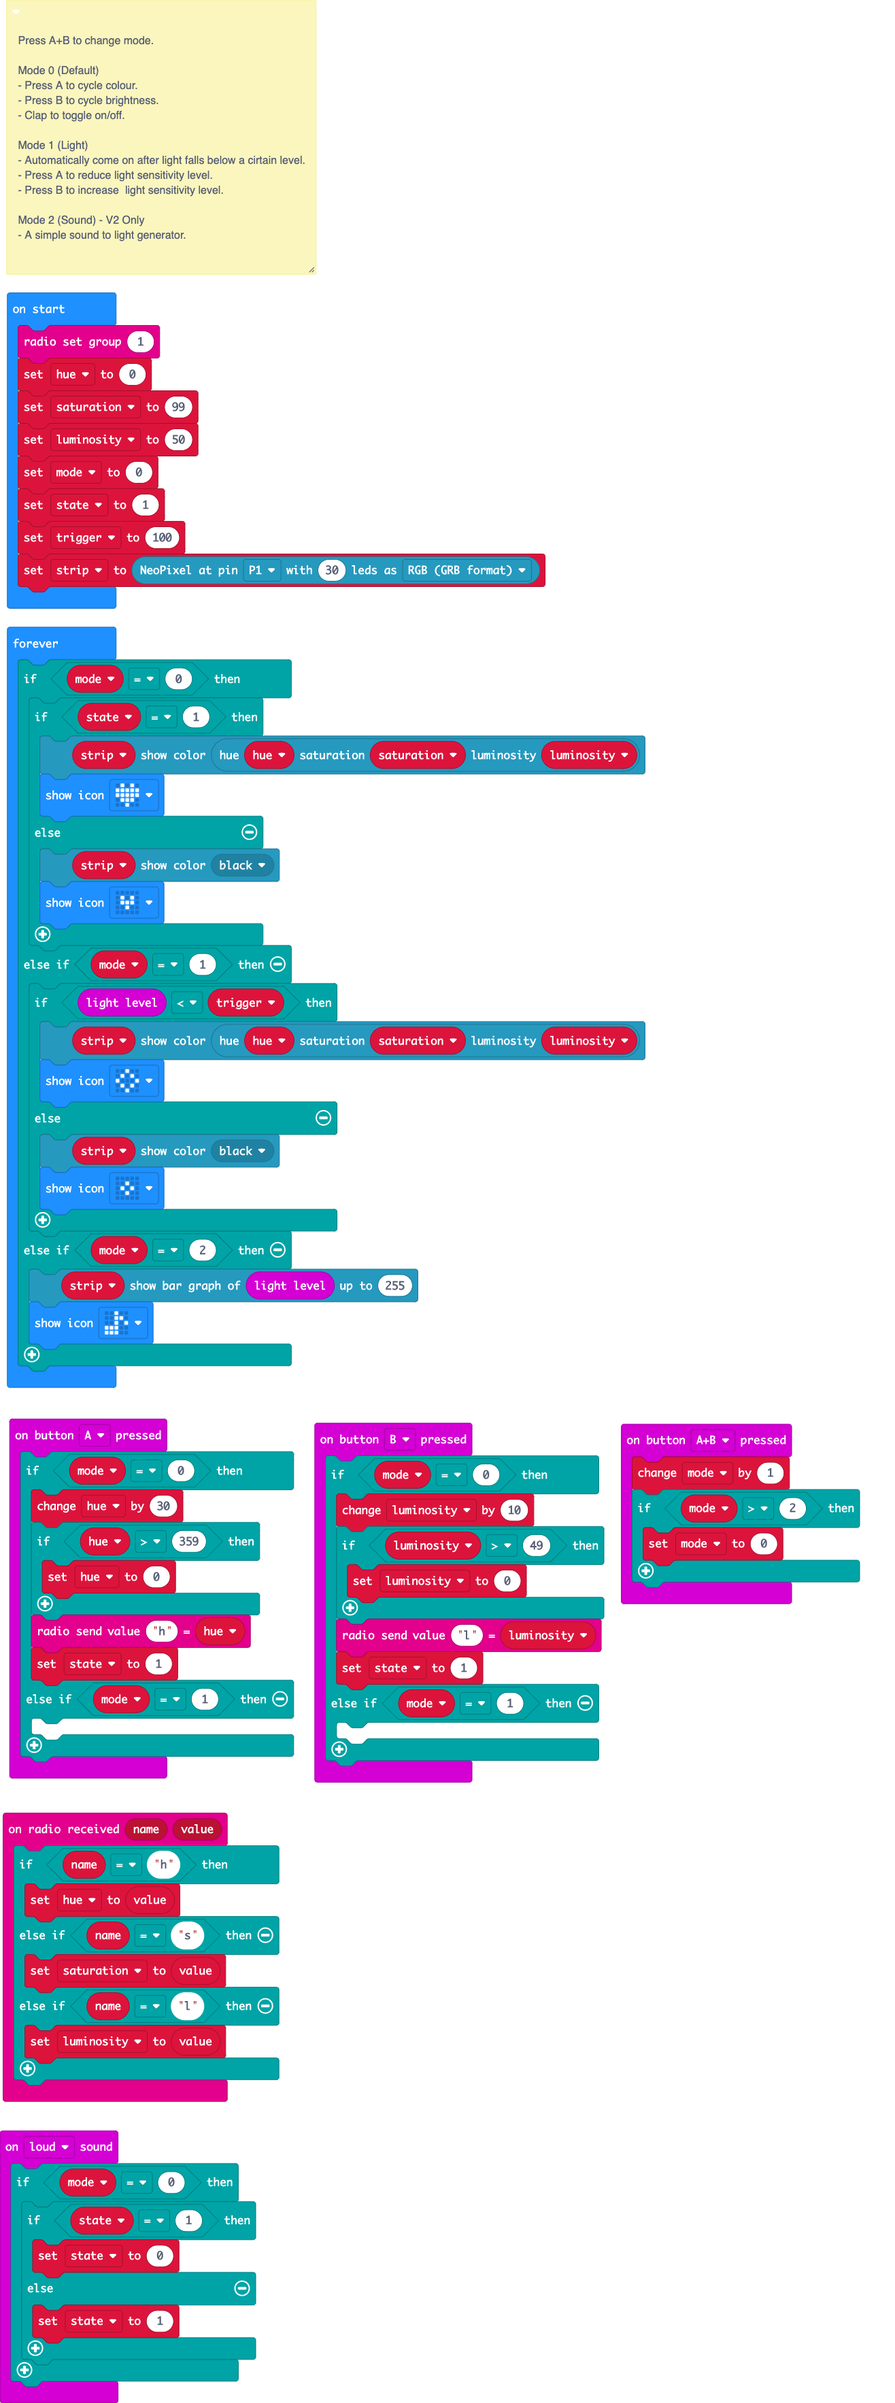
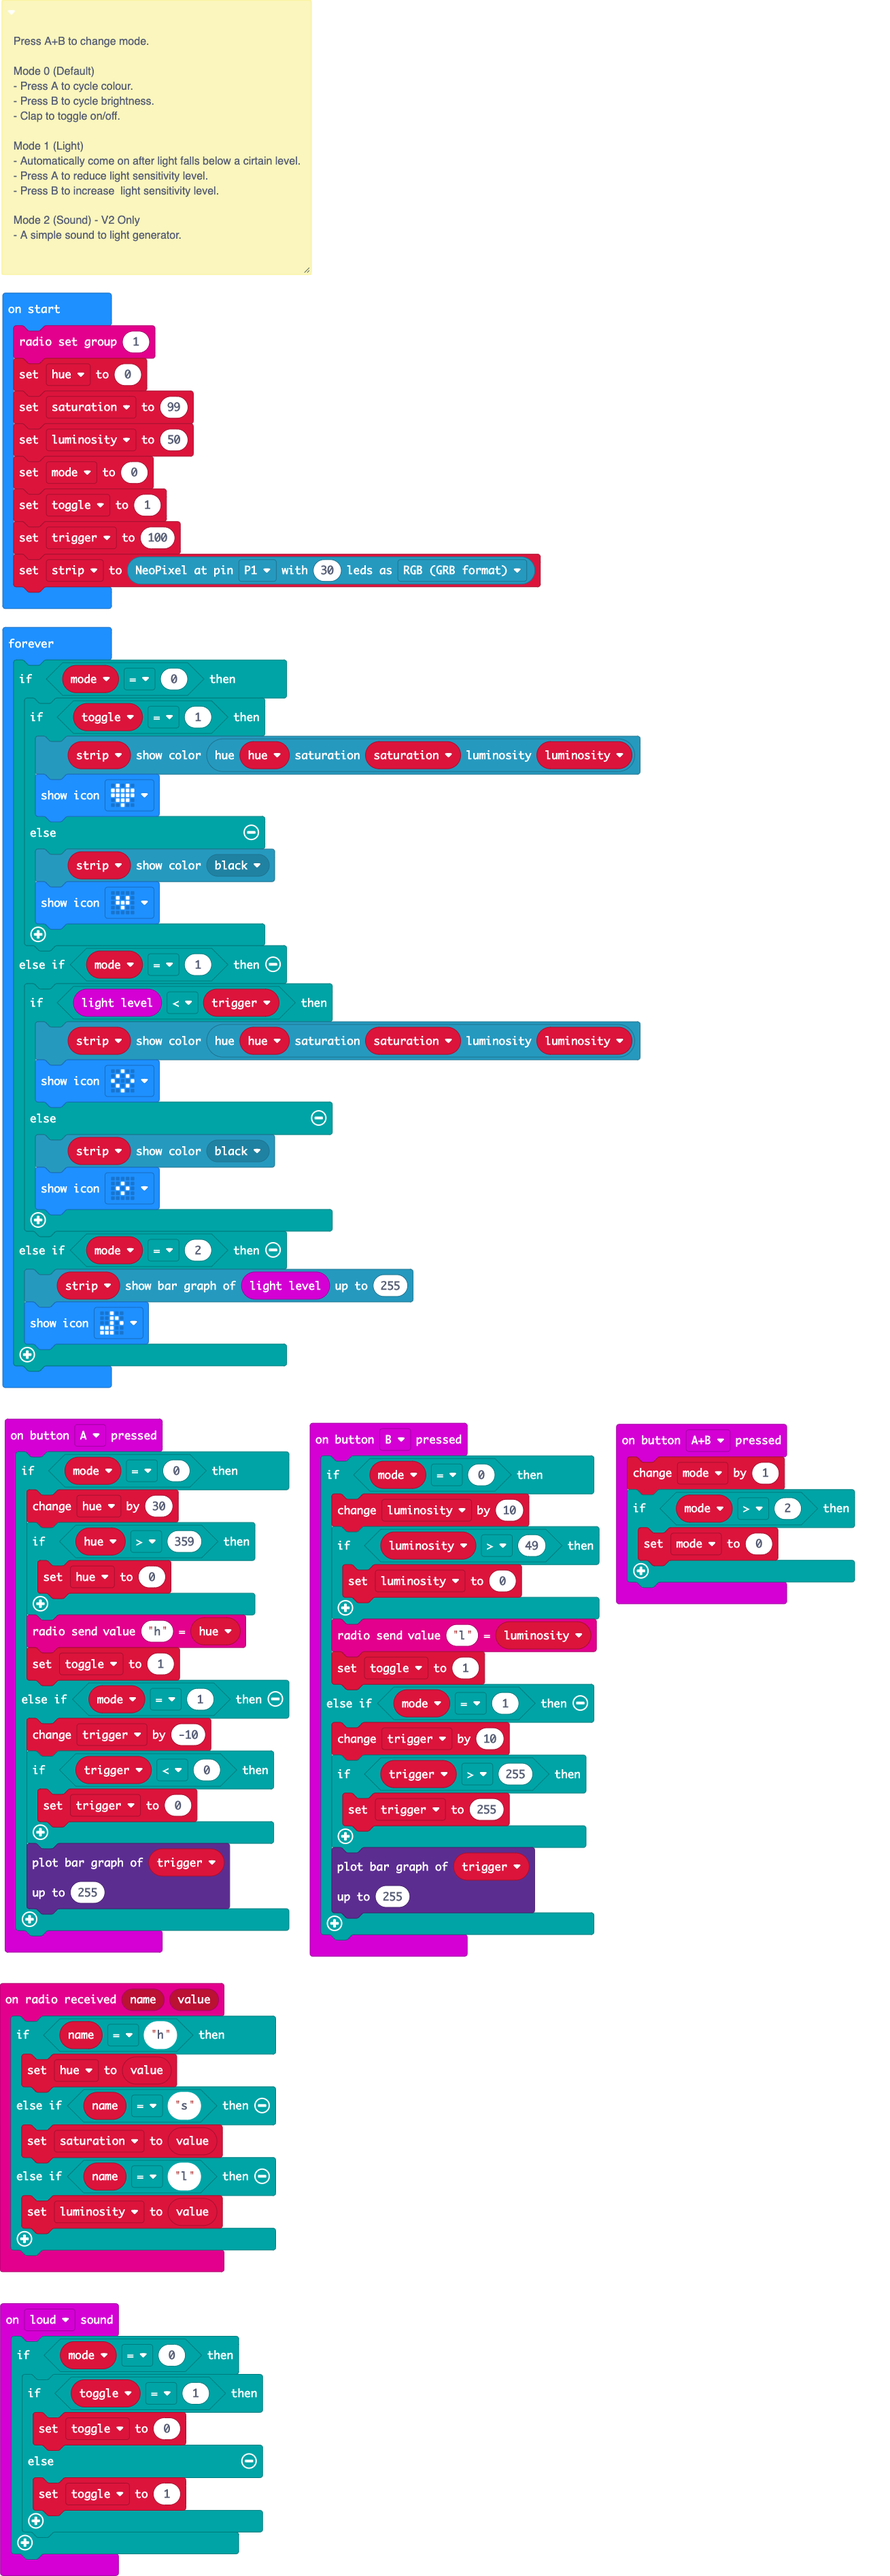
Update main.blocks, main.ts

diff --git a/main.ts b/main.ts
@@ -28,17 +28,24 @@ input.onButtonPressed(Button.A, function () {
             hue = 0
         }
         radio.sendValue("h", hue)
-        state = 1
+        toggle = 1
     } else if (mode == 1) {
-    	
+        trigger += -10
+        if (trigger < 0) {
+            trigger = 0
+        }
+        led.plotBarGraph(
+        trigger,
+        255
+        )
     }
 })
 input.onSound(DetectedSound.Loud, function () {
     if (mode == 0) {
-        if (state == 1) {
-            state = 0
+        if (toggle == 1) {
+            toggle = 0
         } else {
-            state = 1
+            toggle = 1
         }
     }
 })
@@ -55,9 +62,16 @@ input.onButtonPressed(Button.B, function () {
             luminosity = 0
         }
         radio.sendValue("l", luminosity)
-        state = 1
+        toggle = 1
     } else if (mode == 1) {
-    	
+        trigger += 10
+        if (trigger > 255) {
+            trigger = 255
+        }
+        led.plotBarGraph(
+        trigger,
+        255
+        )
     }
 })
 radio.onReceivedValue(function (name, value) {
@@ -69,7 +83,8 @@ radio.onReceivedValue(function (name, value) {
         luminosity = value
     }
 })
-let state = 0
+let trigger = 0
+let toggle = 0
 let mode = 0
 let luminosity = 0
 let saturation = 0
@@ -79,12 +94,12 @@ hue = 0
 saturation = 99
 luminosity = 50
 mode = 0
-state = 1
-let trigger = 100
+toggle = 1
+trigger = 100
 let strip = neopixel.create(DigitalPin.P1, 30, NeoPixelMode.RGB)
 basic.forever(function () {
     if (mode == 0) {
-        if (state == 1) {
+        if (toggle == 1) {
             strip.showColor(neopixel.hsl(hue, saturation, luminosity))
             basic.showIcon(IconNames.Heart)
         } else {
